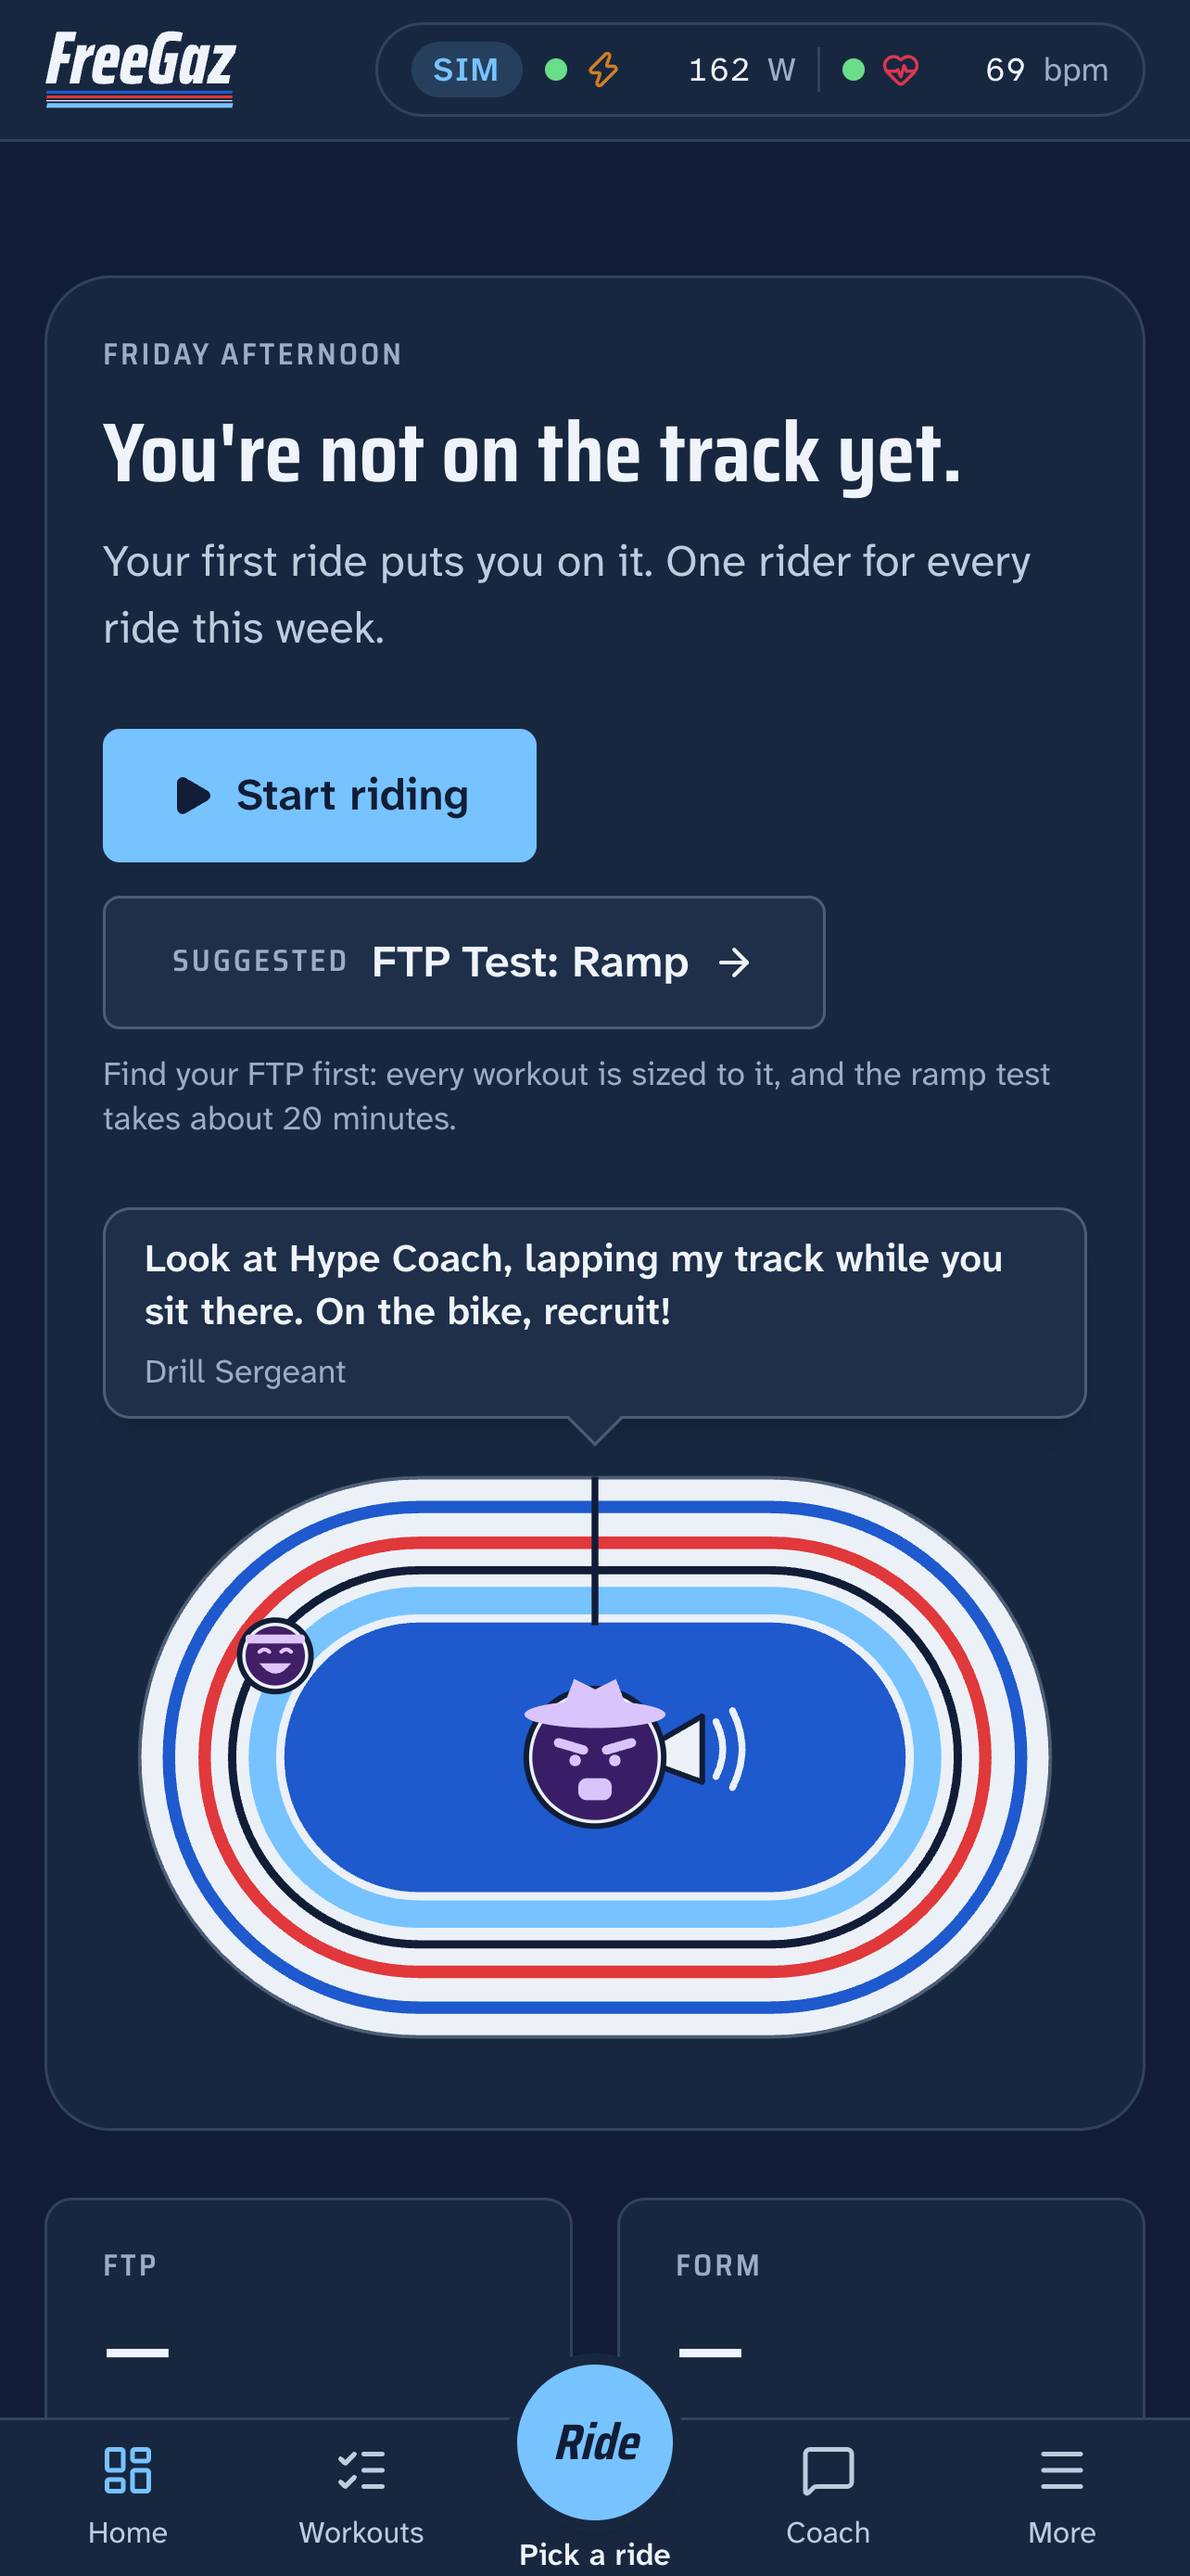
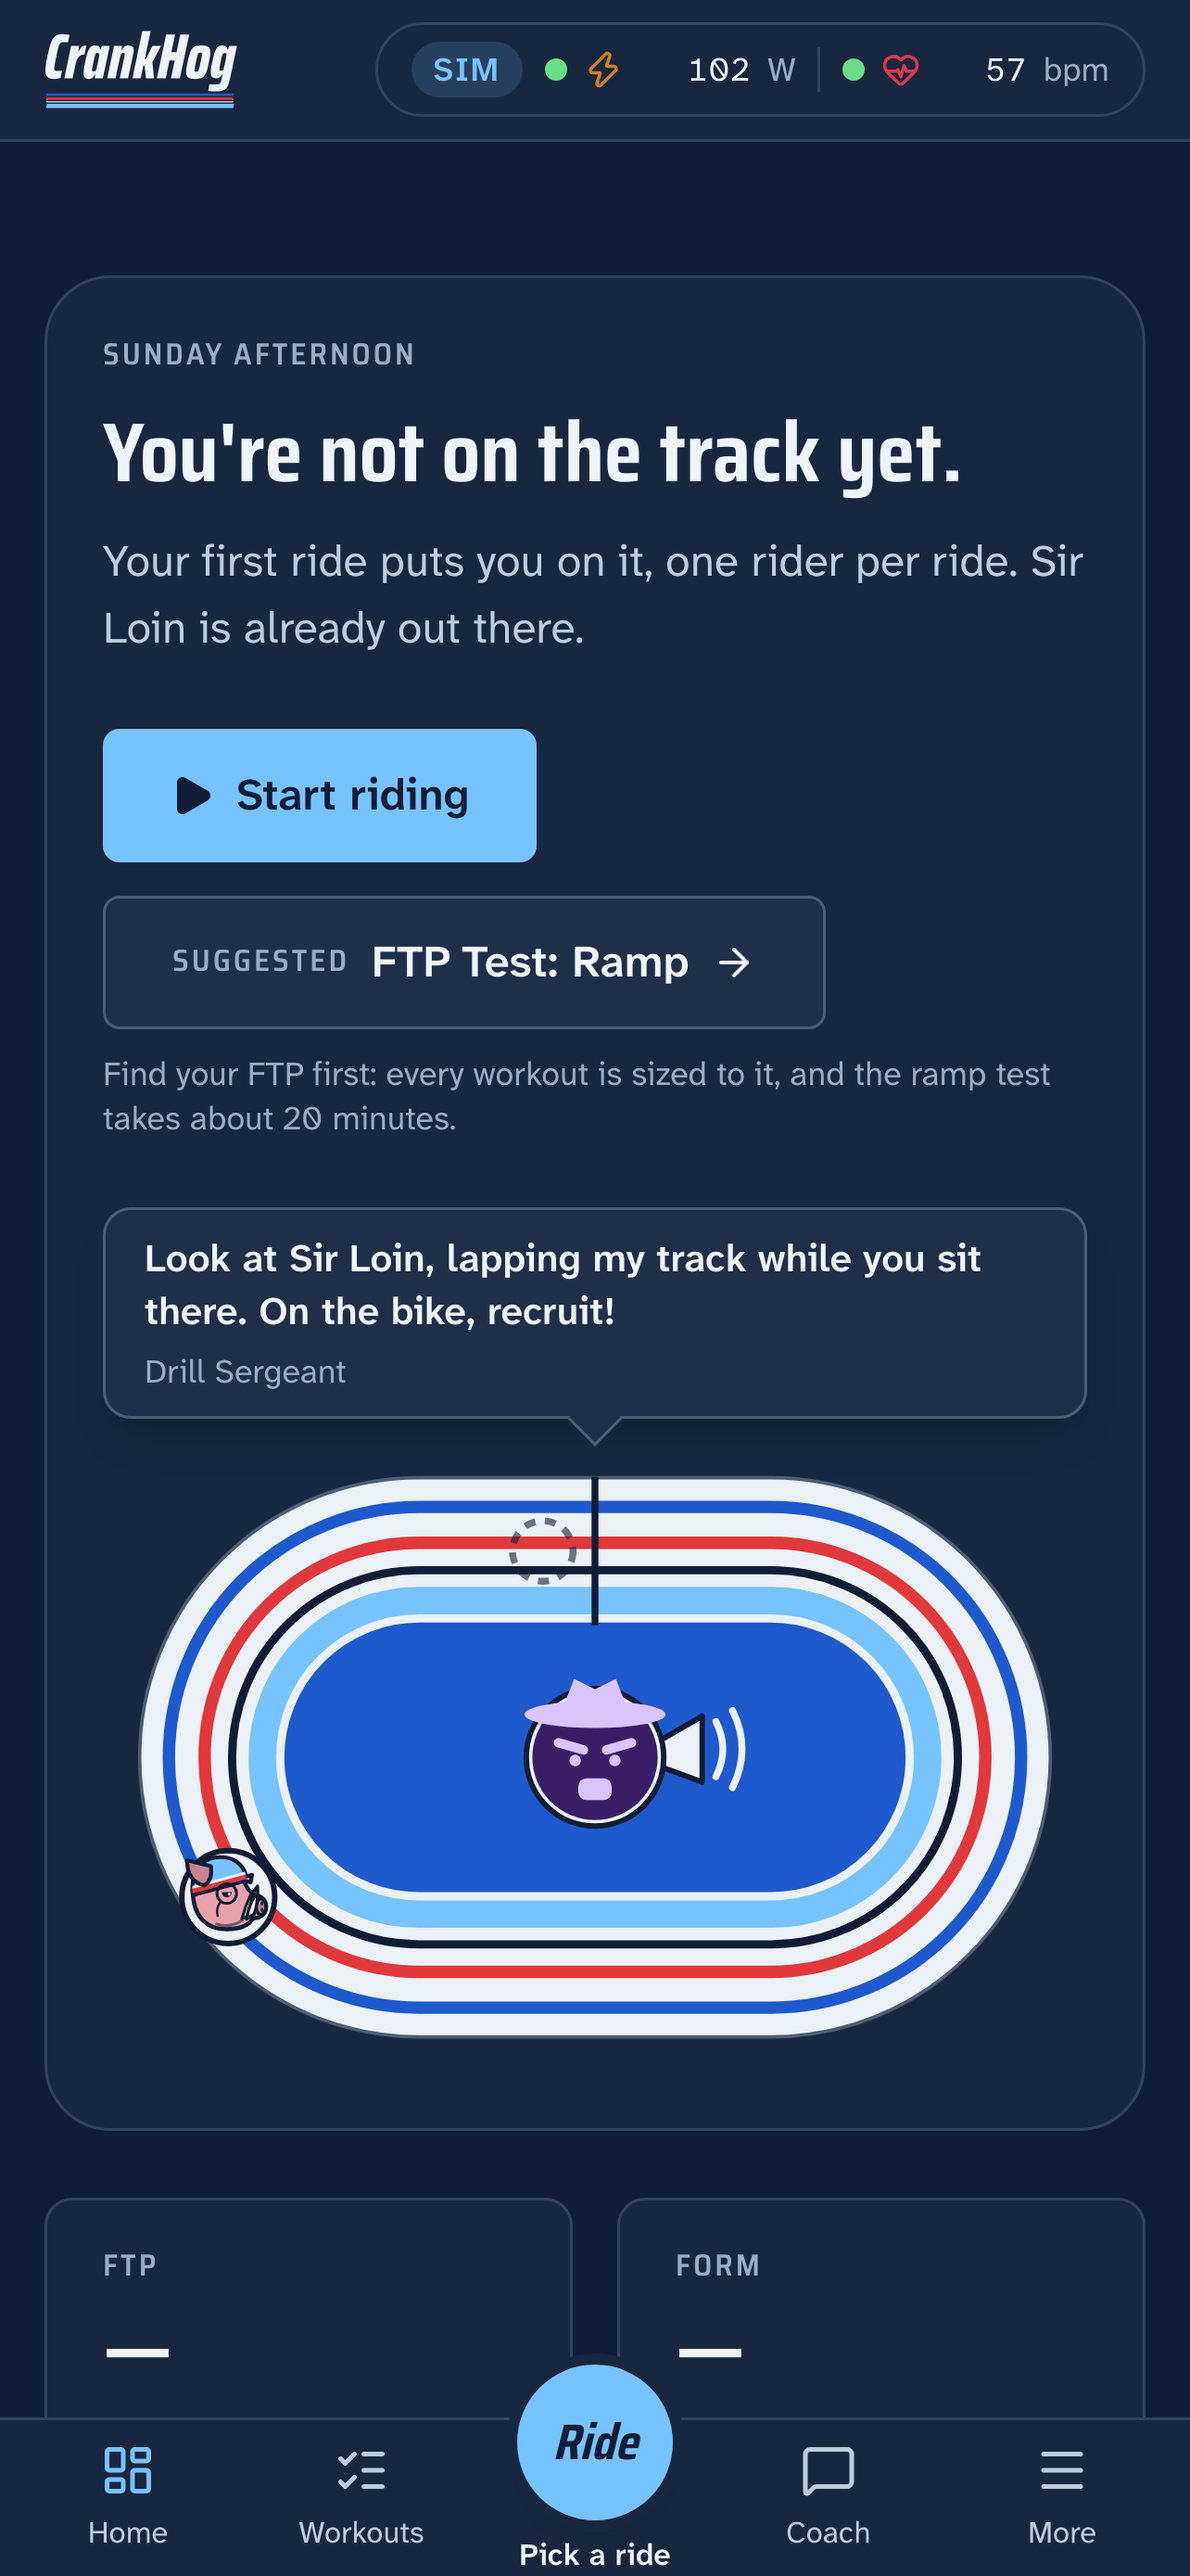
Point everything at raytfitzgerald/CrankHog
The rename commit (#46) moved the updater's feed to repo 'CrankHog' while
electron-builder kept publishing to 'FreeGaz', and the repo itself was
never renamed. raytfitzgerald/CrankHog 404s today, so a packaged 0.6.0
would have shipped an updater that could not find a release. 0.6.0 has
not gone out yet — v0.5.1 is the last one — so nobody is on a broken
build. This settles it the way #46 evidently intended: the repo becomes
CrankHog and everything names it.

Changed: the publish target, BUG_REPO and the two tests that assert the
issue URL, the About link, package.json homepage and repository, the
journey builder's user-agent, the README's three links, the v0.4.0 note's
PWA link, and the Pages base path. The web app moves with the repo, from
/FreeGaz/ to /CrankHog/, so anyone who added the old path to a home
screen has to add it again; the workflow comment says so now.

Not changed, and listed in CLAUDE.md as off limits: the app://freegaz
origin, the Dexie name, the freegaz.web.* keys, Strava's freegaz-<id>
external id, the iOS bundle id, and user-data.ts's migration of the old
Application Support and Documents folders. Those are keyed to a rider's
data or to App Store identity.

The App Store screenshots were still FreeGaz too. tests/screenshots/
app-store.spec.ts now takes them from the production web build in demo
mode, both sizes Apple asks for, dark like their predecessors — the web
build has no time warp, so it pedals 40 real seconds before shooting.
[…]

diff --git a/tests/screenshots/app-store.spec.ts b/tests/screenshots/app-store.spec.ts
@@ -1,0 +1,69 @@
+import { mkdirSync } from 'node:fs'
+import { join } from 'node:path'
+import { expect, test, type Page } from '@playwright/test'
+
+/**
+ * The App Store screenshots, captured from the production web build in demo
+ * mode — the same way docs/IOS.md says they were taken by hand. Two sizes,
+ * both at 3x: 440x956 points for the 6.9" iPhone and 428x926 for the 6.5".
+ *
+ * Demo mode stands in for a trainer (?sim=1), so nothing here is a real ride.
+ */
+
+const SIZES = [
+  { dir: 'docs/app-store', width: 440, height: 956 },
+  { dir: 'docs/app-store/6.5-inch', width: 428, height: 926 },
+] as const
+
+async function tab(page: Page, name: string): Promise<void> {
+  await page.getByRole('link', { name, exact: true }).first().click()
+}
+
+for (const size of SIZES) {
+  test.describe(`${size.width}x${size.height} at 3x`, () => {
+    test.use({ viewport: { width: size.width, height: size.height }, deviceScaleFactor: 3 })
+
+    test('the five store screens', async ({ page }) => {
+      const out = join(__dirname, '../..', size.dir)
+      mkdirSync(out, { recursive: true })
+      const shot = async (name: string) => {
+        await page.waitForTimeout(500)
+        await page.screenshot({ path: join(out, `${name}.png`) })
+      }
+
+      await page.goto('/?sim=1')
+      await expect(page.getByRole('navigation').first()).toBeVisible()
+      // Demo mode connects a simulated trainer and strap; wait for watts, not
+      // for the Sim chip, whose capitals are CSS rather than text.
+      await expect(page.getByTestId('status-trainer').first()).toContainText(/\d/, { timeout: 30_000 })
+
+      await tab(page, 'Home')
+      await shot('1-home')
+
+      await tab(page, 'Ride')
+      const change = page.getByTestId('change-ride')
+      if (await change.isVisible().catch(() => false)) await change.click()
+      await expect(page.getByRole('heading', { name: 'What are we riding?' })).toBeVisible()
+      await shot('2-ride')
+
+      await tab(page, 'Workouts')
+      await expect(page.getByTestId('workout-card').first()).toBeVisible()
+      await shot('3-workouts')
+
+      // Into a workout: the ride screen, then the big tiles further down it.
+      await page.getByTestId('workout-card').filter({ hasText: 'Race Openers' }).first().click()
+      await page.getByTestId('ride-workout').click()
+      await expect(page.getByTestId('interval-remaining')).toBeVisible()
+      // Real time here: the web build has no time warp, so this is 40 seconds
+      // of actual pedalling before the numbers are worth photographing.
+      await page.waitForTimeout(40_000)
+      // Starting the workout leaves the page scrolled; the first shot is the
+      // top of the ride screen, the second is the tiles below it.
+      await page.mouse.wheel(0, -3000)
+      await shot('4-workout')
+
+      await page.mouse.wheel(0, 1400)
+      await shot('5-workout-tiles')
+    })
+  })
+}

diff --git a/playwright.screenshots.config.ts b/playwright.screenshots.config.ts
@@ -1,8 +1,11 @@
-import { defineConfig } from '@playwright/test'
+import { defineConfig, devices } from '@playwright/test'
 
-// The README tour. Separate from playwright.config.ts so `npm run e2e` never
-// rewrites docs/screenshots, and so these can take their time: a couple of the
-// shots ride a simulated workout first.
+// The documentation screenshots. Separate from playwright.config.ts so
+// `npm run e2e` never rewrites docs/, and so these can take their time: some
+// of them ride a simulated workout first.
+//
+//   readme    — the Electron app, into docs/screenshots
+//   app-store — the production web build in demo mode, into docs/app-store
 export default defineConfig({
   testDir: 'tests/screenshots',
   timeout: 300_000,
@@ -11,4 +14,20 @@ export default defineConfig({
   fullyParallel: false,
   retries: 0,
   reporter: [['list']],
+  projects: [
+    { name: 'readme', testMatch: /capture\.spec\.ts/ },
+    {
+      name: 'app-store',
+      testMatch: /app-store\.spec\.ts/,
+      // Appearance follows the system, and a headless browser says light.
+      // The store shots have always been dark, which is the brand.
+      use: { ...devices['Desktop Chrome'], baseURL: 'http://localhost:5198', colorScheme: 'dark' },
+    },
+  ],
+  webServer: {
+    command: 'npm run build:web && npm run preview:web',
+    url: 'http://localhost:5198',
+    reuseExistingServer: !process.env.CI,
+    timeout: 180_000,
+  },
 })

diff --git a/src/renderer/src/features/settings/AboutSection.tsx b/src/renderer/src/features/settings/AboutSection.tsx
@@ -31,8 +31,8 @@ export function AboutSection() {
         </div>
       </Field>
       <Field label="Source">
-        <button type="button" className="pt-2 text-sm text-accent underline" onClick={() => void bridge().invoke('files.openUrl', { url: 'https://github.com/raytfitzgerald/FreeGaz' })}>
-          github.com/raytfitzgerald/FreeGaz
+        <button type="button" className="pt-2 text-sm text-accent underline" onClick={() => void bridge().invoke('files.openUrl', { url: 'https://github.com/raytfitzgerald/CrankHog' })}>
+          github.com/raytfitzgerald/CrankHog
         </button>
       </Field>
       <Field label="Found a bug?" hint="Opens a pre-filled GitHub issue, so it reaches the developer with the details that help.">

diff --git a/tests/e2e/smoke.spec.ts b/tests/e2e/smoke.spec.ts
@@ -118,7 +118,7 @@ test('Report a bug opens a pre-filled GitHub issue, with diagnostics the reporte
   const opened = await app.evaluate(() => (globalThis as { __opened?: string[] }).__opened ?? [])
   expect(opened).toHaveLength(1)
   const url = new URL(opened[0]!)
-  expect(url.origin + url.pathname).toBe('https://github.com/raytfitzgerald/FreeGaz/issues/new')
+  expect(url.origin + url.pathname).toBe('https://github.com/raytfitzgerald/CrankHog/issues/new')
   expect(url.searchParams.get('title')).toBe('Theme flips after a units change')
   expect(url.searchParams.get('body')).toContain('Light mode turned dark.')
   expect(url.searchParams.get('body')).toContain('### Diagnostics')

diff --git a/src/core/support/bug-report.test.ts b/src/core/support/bug-report.test.ts
@@ -31,7 +31,7 @@ describe('bug reports', () => {
 
   it('points at the repo as a labelled bug', () => {
     const { url, trimmed } = bugIssueUrl('Light mode', 'body')
-    expect(url.startsWith('https://github.com/raytfitzgerald/FreeGaz/issues/new?')).toBe(true)
+    expect(url.startsWith('https://github.com/raytfitzgerald/CrankHog/issues/new?')).toBe(true)
     const q = new URL(url).searchParams
     expect(q.get('labels')).toBe('bug')
     expect(q.get('title')).toBe('Light mode')

diff --git a/src/core/support/bug-report.ts b/src/core/support/bug-report.ts
@@ -2,7 +2,7 @@
 // browser: GitHub emails the maintainer, nothing is sent from the app itself,
 // and the reporter sees (and can edit) every word before submitting.
 
-export const BUG_REPO = 'raytfitzgerald/FreeGaz'
+export const BUG_REPO = 'raytfitzgerald/CrankHog'
 /** GitHub rejects much longer new-issue URLs; the body is trimmed to fit. */
 export const MAX_ISSUE_URL = 8000
 export const MAX_TITLE = 120

diff --git a/README.md b/README.md
@@ -163,7 +163,7 @@ It's a data-obsessed indoor cycling trainer for macOS, and [for your phone](#on-
 
 Requirements: a Mac with Apple Silicon and Bluetooth.
 
-**From a release:** download `CrankHog-<version>-arm64.dmg` from [Releases](https://github.com/raytfitzgerald/FreeGaz/releases) and drag CrankHog to Applications. From 0.4.0, releases are signed with a Developer ID and notarized by Apple, so the first launch only asks the usual "downloaded from the Internet" question. Click **Open**.
+**From a release:** download `CrankHog-<version>-arm64.dmg` from [Releases](https://github.com/raytfitzgerald/CrankHog/releases) and drag CrankHog to Applications. From 0.4.0, releases are signed with a Developer ID and notarized by Apple, so the first launch only asks the usual "downloaded from the Internet" question. Click **Open**.
 
 <details>
 <summary>Releases up to 0.3.0 aren't notarized</summary>
@@ -195,7 +195,7 @@ From 0.5.0, the Mac app updates itself. It checks GitHub's releases a little aft
 
 ### On your phone
 
-CrankHog also runs as an app on your phone, no app store involved: open **[raytfitzgerald.github.io/FreeGaz](https://raytfitzgerald.github.io/FreeGaz/)** and add it to your home screen. It gets its own icon, opens full screen and works with no signal, which is handy, because the pain cave never has Wi-Fi.
+CrankHog also runs as an app on your phone, no app store involved: open **[raytfitzgerald.github.io/CrankHog](https://raytfitzgerald.github.io/CrankHog/)** and add it to your home screen. It gets its own icon, opens full screen and works with no signal, which is handy, because the pain cave never has Wi-Fi.
 
 **Android (Chrome).** This is the full experience, trainer included.
 
@@ -268,7 +268,7 @@ Everything stays on this Mac. Rides live in the app's database, plus a FIT file 
 
 ## Reporting a bug
 
-Use **Report a bug** at the bottom of the sidebar (or **Settings → About**). It opens a GitHub issue with your report and a few diagnostics filled in: app and macOS versions, device types and a few settings, never names or ride data. You can read and edit all of it before you submit. You can also [open an issue](https://github.com/raytfitzgerald/FreeGaz/issues/new/choose) directly.
+Use **Report a bug** at the bottom of the sidebar (or **Settings → About**). It opens a GitHub issue with your report and a few diagnostics filled in: app and macOS versions, device types and a few settings, never names or ride data. You can read and edit all of it before you submit. You can also [open an issue](https://github.com/raytfitzgerald/CrankHog/issues/new/choose) directly.
 
 ## Building from source
 

diff --git a/CLAUDE.md b/CLAUDE.md
@@ -13,7 +13,8 @@ A macOS Electron + React/TypeScript indoor-cycling trainer (ERG/SIM control, wor
 - `src/shared` holds the IPC contract (`ipc/contract.ts`, zod). Add every new channel to `ipc/channels.ts` too; a test enforces this.
 - Renderer ↔ main traffic goes only through `window.crankhog.invoke/on`. Main validates every payload and checks the sender.
 - Secrets live only in main (`safeStorage`). The renderer never sees API keys or OAuth tokens.
-- The `app://freegaz` origin must never change, or IndexedDB data is orphaned. It keeps the old name after the CrankHog rename on purpose; users never see it. The iOS bundle id and the GitHub repo stay `…freegaz` / `raytfitzgerald/FreeGaz` too, so App Store updates and the updater feed keep working.
+- The `app://freegaz` origin must never change, or IndexedDB data is orphaned. It keeps the old name after the CrankHog rename on purpose; users never see it. The iOS bundle id stays `io.github.raytfitzgerald.freegaz` too, or App Store updates break.
+- The GitHub repos were renamed to `raytfitzgerald/CrankHog` and `…/CrankHog-site` in 0.6.0, before 0.6.0 shipped. The updater feed (`electron-updater.ts`) and the publish target (`electron-builder.yml`) must always name the same repo; they disagreed between the rename commit and this one, which would have shipped a 404 feed. The web app moved with it, to `raytfitzgerald.github.io/CrankHog/`.
 - `productName` moved to `CrankHog` in 0.6.0. `src/main/user-data.ts` renames the old Application Support and Documents folders on first launch; don't change it again without a migration.
 
 ## Domain rules

diff --git a/docs/IOS.md b/docs/IOS.md
@@ -72,7 +72,9 @@ npm run ios:release
 
 ### Screenshots
 
-`docs/app-store/` holds five 1320 × 2868 PNGs, the 6.9" iPhone size Apple asks for: Home, the ride picker, Workouts, a workout on the Stelvio journey, and the big tiles. They were captured from the production web build in demo mode, at 440 × 956 points × 3. Drag them in under **iPhone 6.9" Display**. The app is iPhone-only, so no iPad screenshots are needed.
+`docs/app-store/` holds five 1320 × 2868 PNGs, the 6.9" iPhone size Apple asks for: Home, the ride picker, Workouts, a workout mid-ride, and the big tiles. `docs/app-store/6.5-inch/` holds the same five at 1284 × 2778. Drag them in under **iPhone 6.9" Display** and **6.5" Display**. The app is iPhone-only, so no iPad screenshots are needed.
+
+`npm run screenshots` retakes them, from the production web build in demo mode at 440 × 956 and 428 × 926 points × 3 (`tests/screenshots/app-store.spec.ts`). It also retakes the README tour from the Mac app. Run it whenever the interface moves on; the store will reject stale screenshots that no longer match the build.
 
 ### Notes for the reviewer
 

diff --git a/docs/releases/v0.4.0.md b/docs/releases/v0.4.0.md
@@ -20,7 +20,7 @@ Coming from 0.3.0 or earlier? The app now has a new code identity, so macOS asks
 - **The saved-ride card says why** a ride wasn't sent to Strava (too short, auto-upload off, not connected, no FIT file).
 
 **On your phone**
-- **CrankHog installs as a web app** from [raytfitzgerald.github.io/FreeGaz](https://raytfitzgerald.github.io/FreeGaz/). On Android it controls the trainer too; on iPhone it does everything except Bluetooth.
+- **CrankHog installs as a web app** from [raytfitzgerald.github.io/CrankHog](https://raytfitzgerald.github.io/CrankHog/). On Android it controls the trainer too; on iPhone it does everything except Bluetooth.
 
 ## Fixes
 - **ERG holds the target from a standing start.** The spiral-of-death guard tripped at the start of every ride and didn't give the load back until 70 rpm. It now arms once you're pedalling, trips below 45 rpm for 4 s and recovers at 55 rpm for 3 s.
